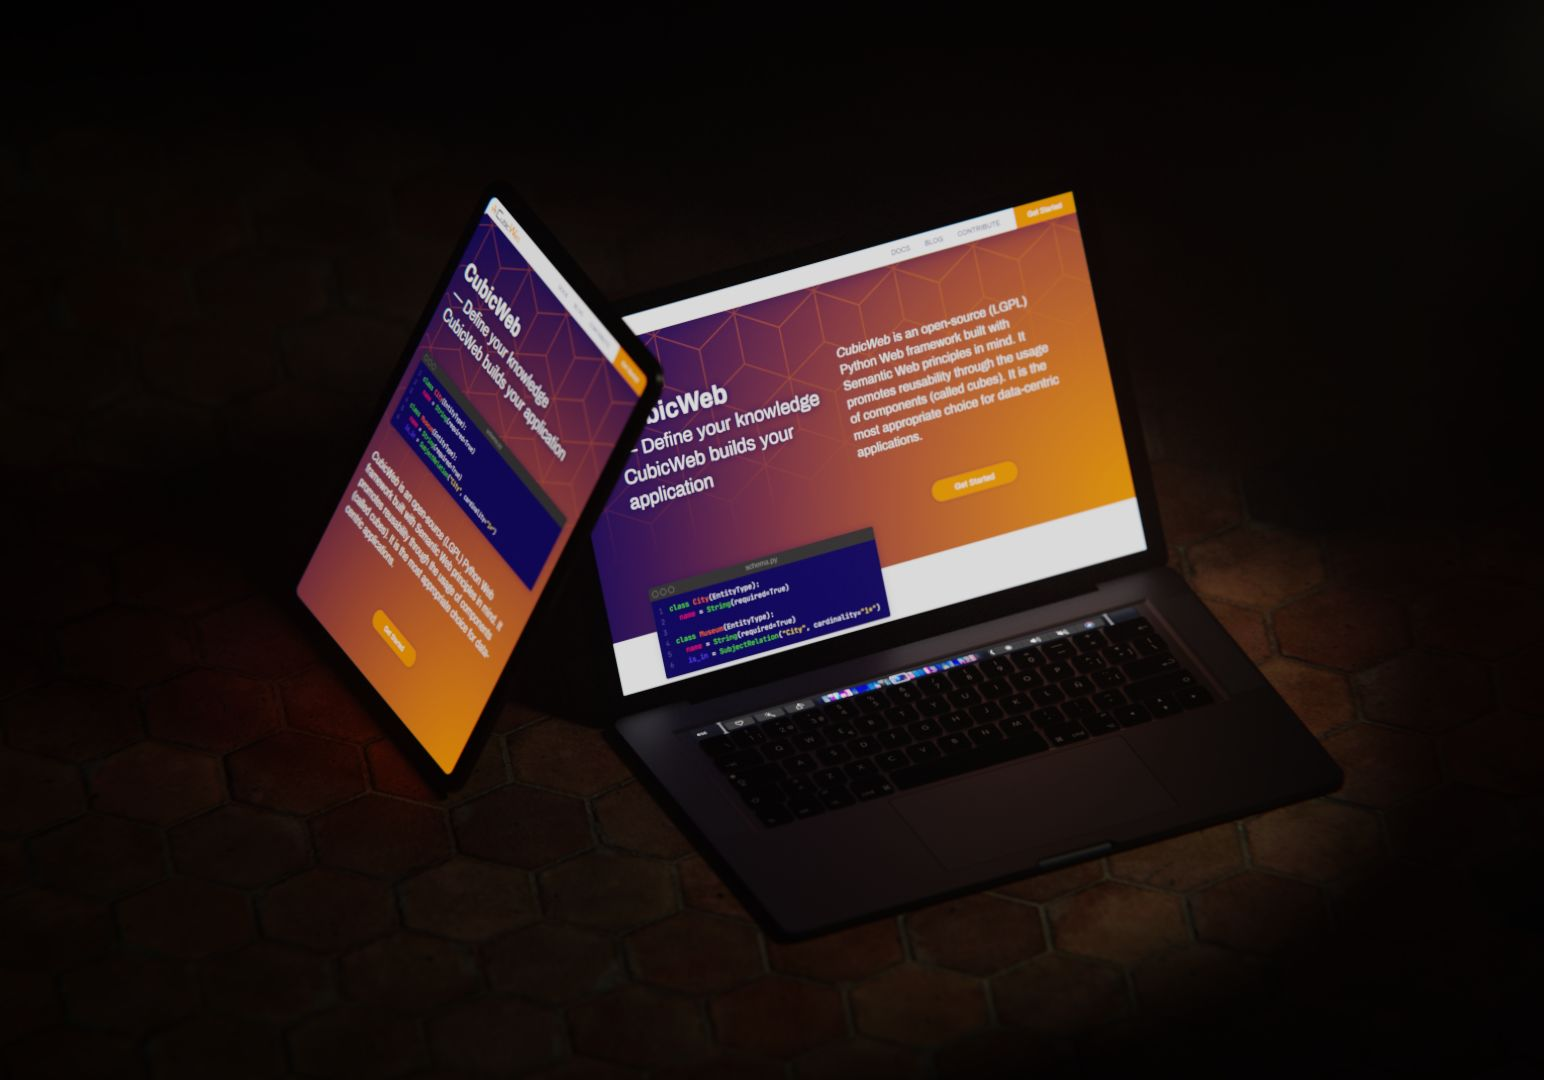
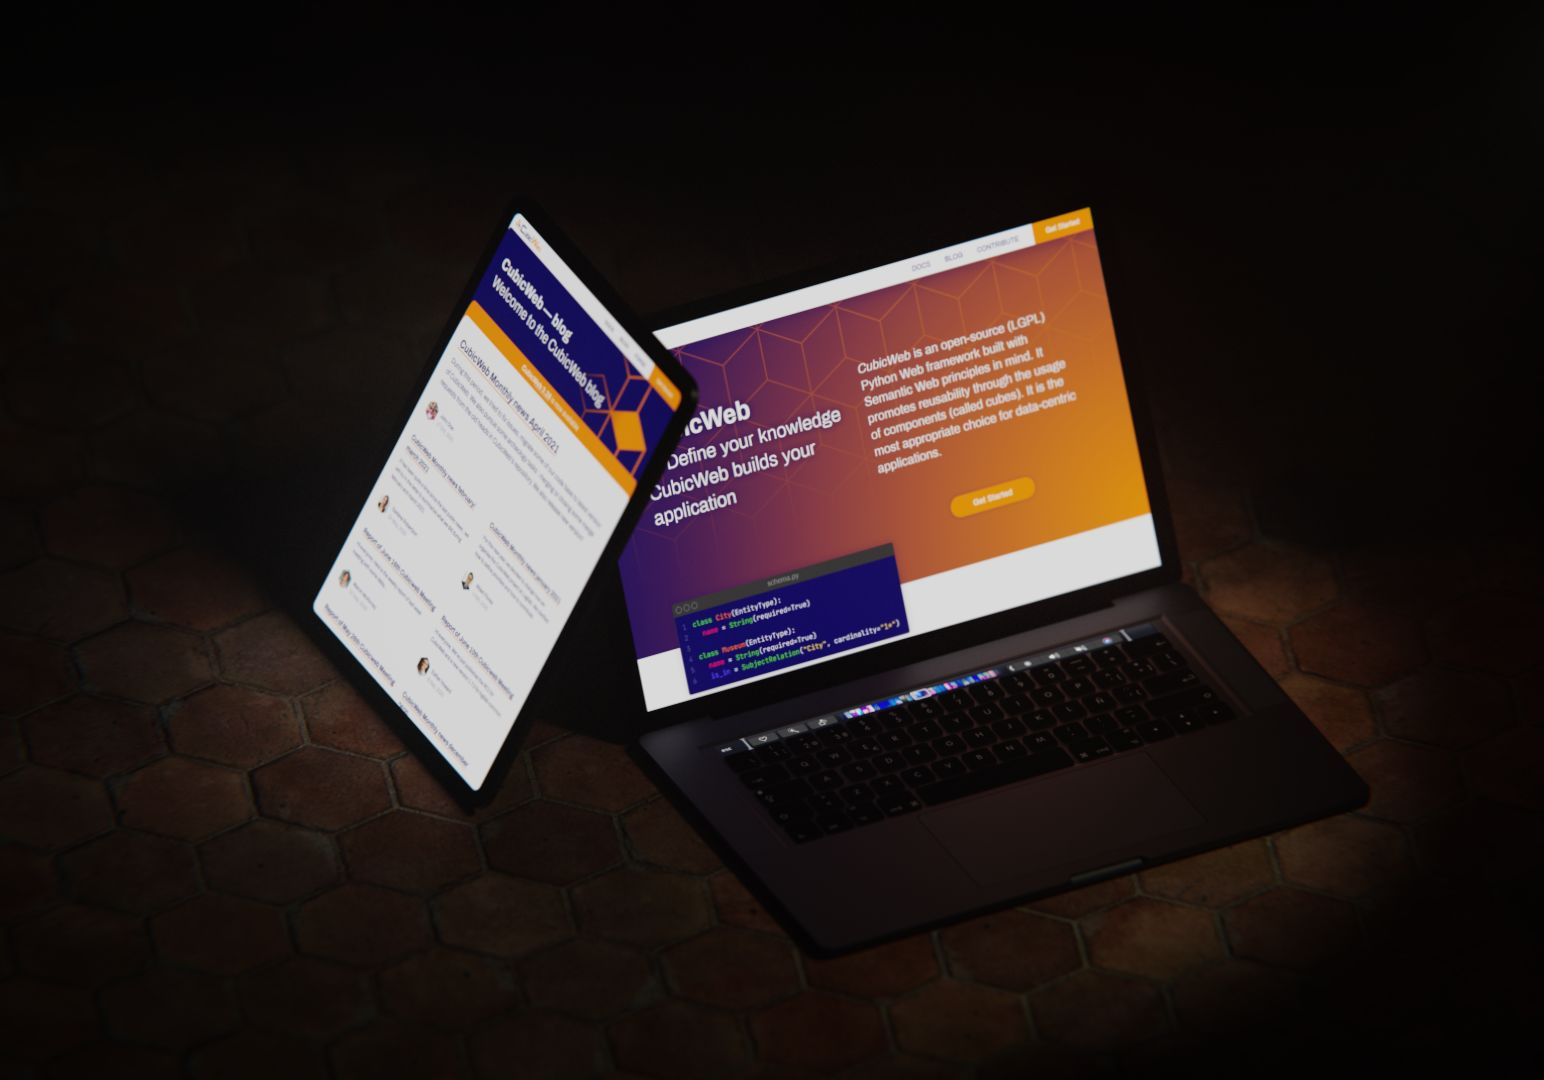
feat: add new project page

diff --git a/src/components/projects/PP_cubicweborg.jsx b/src/components/projects/PP_cubicweborg.jsx
@@ -1,0 +1,56 @@
+import React, { useRef } from "react";
+import styled from "styled-components";
+import {
+  ProjectPageWrapper,
+  ProjectPageContent,
+  FullScreenImage,
+  FullScreenBackground,
+  TextMedium,
+  TextSmall,
+  DoubleColumns,
+  MockUpDouble,
+  VisitSiteButton,
+  Empty,
+} from "../../assets/PageAssets";
+
+import Image0 from "../../assets/projects/cubicweb/cubicweb_screen_1440x900.png";
+import Image1 from "../../assets/projects/cubicweb/cubicweb_screen_iphone.png";
+import Image2 from "../../assets/projects/cubicweb/cubicweb_frames.png";
+
+export const ProjectPage = () => {
+  const containerRef = useRef(null);
+
+  return (
+    <ProjectPageWrapper ref={containerRef}>
+      <ProjectPageContent>
+        <TextSmall scroller={containerRef}>
+          Graphic and ergonomic update for the promotional and informational
+          website of the open-source framework CubicWeb, focused on the semantic
+          web, along with its associated technical blog.
+        </TextSmall>
+        <MockUpDouble
+          scroller={containerRef}
+          screenMBAir={Image0}
+          screenIPhone={Image1}
+        />
+        <TextSmall scroller={containerRef}>
+          Graphic elements, such as colors and hexagonal patterns, reference the
+          original logo and the company behind the project.
+        </TextSmall>
+        <TextSmall scroller={containerRef} $afterText={true}>
+          Emphasis was placed on visual and editorial simplicity on the
+          homepage, using small, segmented sections to make the project
+          appealing despite its technical complexity.
+        </TextSmall>
+        <FullScreenImage scroller={containerRef} src={Image2} $isSquareOnMobile={true} />
+        <TextMedium scroller={containerRef}>
+          The project also involves redesigning the technical blog associated
+          with the framework, reusing elements from the main site —&nbsp;such as
+          the color palette, typography, and layout template&nbsp;— to maintain
+          coherence between the two sites.
+        </TextMedium>
+        <Empty />
+      </ProjectPageContent>
+    </ProjectPageWrapper>
+  );
+};

diff --git a/src/App.jsx b/src/App.jsx
@@ -19,6 +19,7 @@ import { ProjectPage as DefaultProjectPage } from "./components/projects/Default
 import { ProjectPage as PageBowVosgien } from "./components/projects/PP_bowvosgien";
 import { ProjectPage as PageLogilabFr } from "./components/projects/PP_logilabfr";
 import { ProjectPage as PageSwep } from "./components/projects/PP_swep";
+import { ProjectPage as PageCubicWebOrg } from "./components/projects/PP_cubicweborg";
 import ThumbLeBowVosgien from "./assets/projects/le_bow_vosgien/mockup_le_bow_vosgien.jpg";
 import ThumbLogilabFr from "./assets/projects/logilab_fr/mockup_logilab_fr.jpg";
 import ThumbSwep from "./assets/projects/swep/mockup_swep.jpg";
@@ -209,7 +210,7 @@ function App() {
       description: "art direction + front-end",
       keywords: "Figma — React — Styled-Components",
       thumbnail: ThumbCubicWeb,
-      projectpage: DefaultProjectPage,
+      projectpage: PageCubicWebOrg,
     },
     {
       title: "Logilab.fr",

diff --git a/src/assets/PageAssets.jsx b/src/assets/PageAssets.jsx
@@ -107,7 +107,9 @@ const FadeInMockUp = ({ children, scroller }) => {
                 scroller: customScroller,
                 start: "top 80%",
                 end: "top 50%",
-                scrub: 1,
+                duration: 1,
+                ease: "power3.out",
+                toggleActions: "play none none reverse",
               },
             }
           );
@@ -130,7 +132,9 @@ const FadeInMockUp = ({ children, scroller }) => {
                 scroller: customScroller,
                 start: "top 80%",
                 end: "top 50%",
-                scrub: 1,
+                duration: 1,
+                ease: "power3.out",
+                toggleActions: "play none none reverse",
               },
             }
           );
